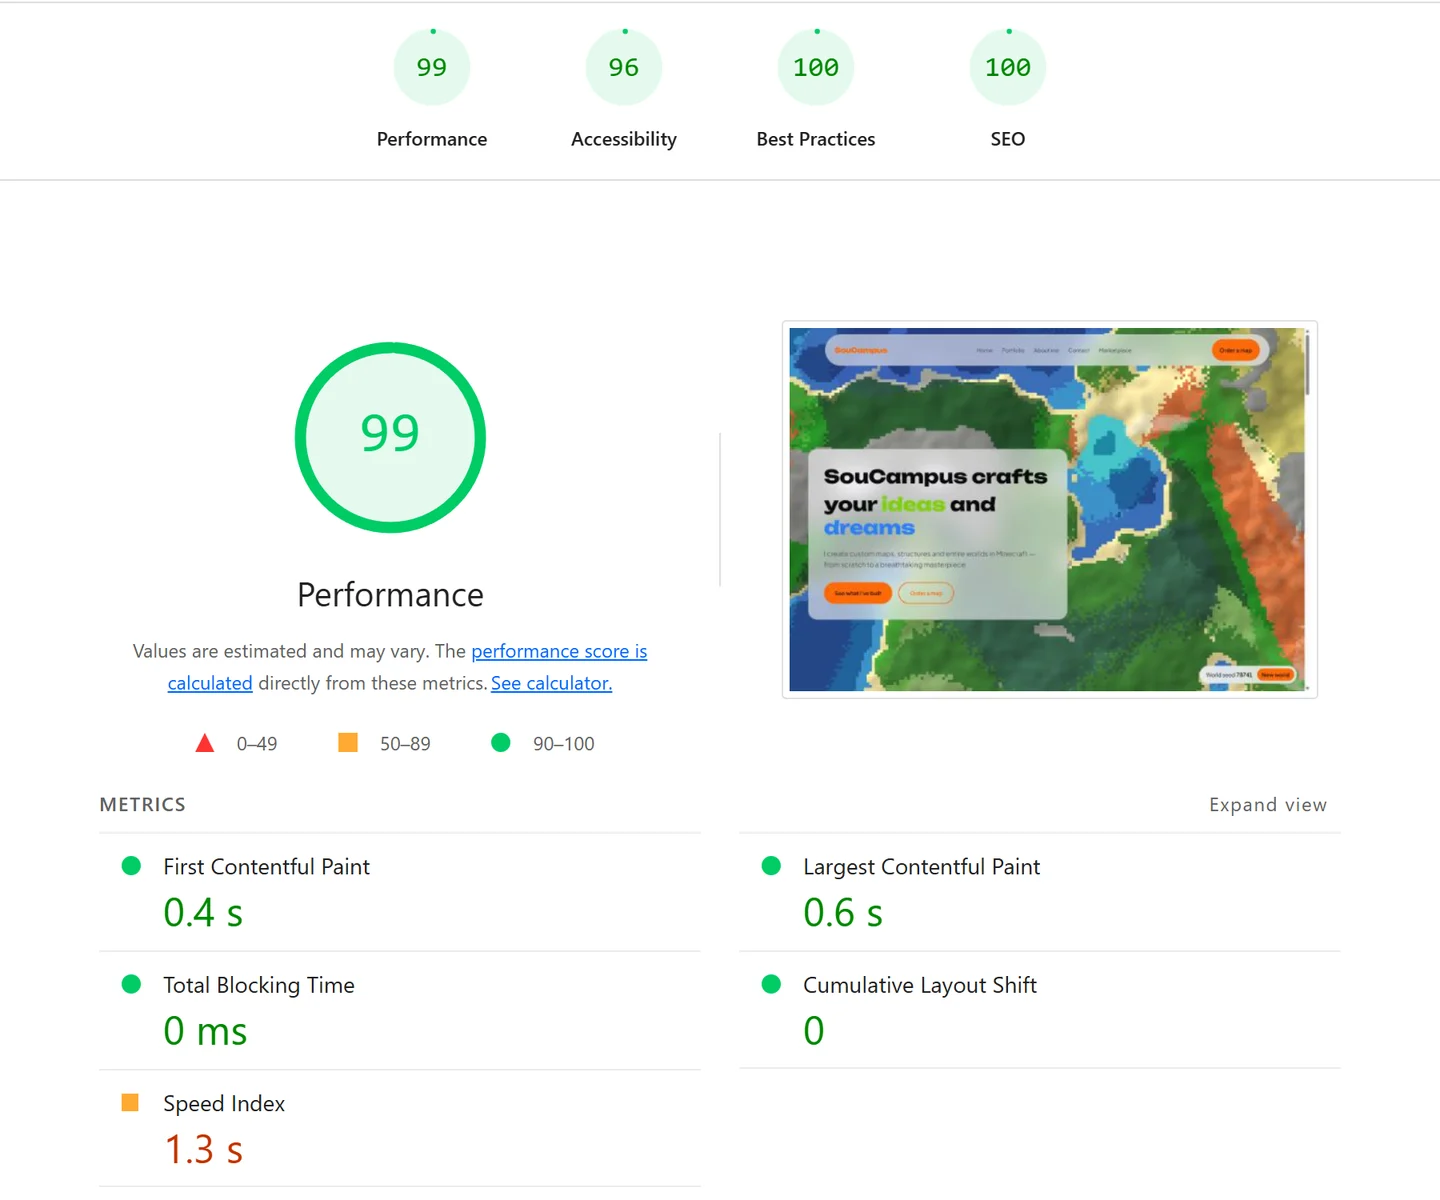
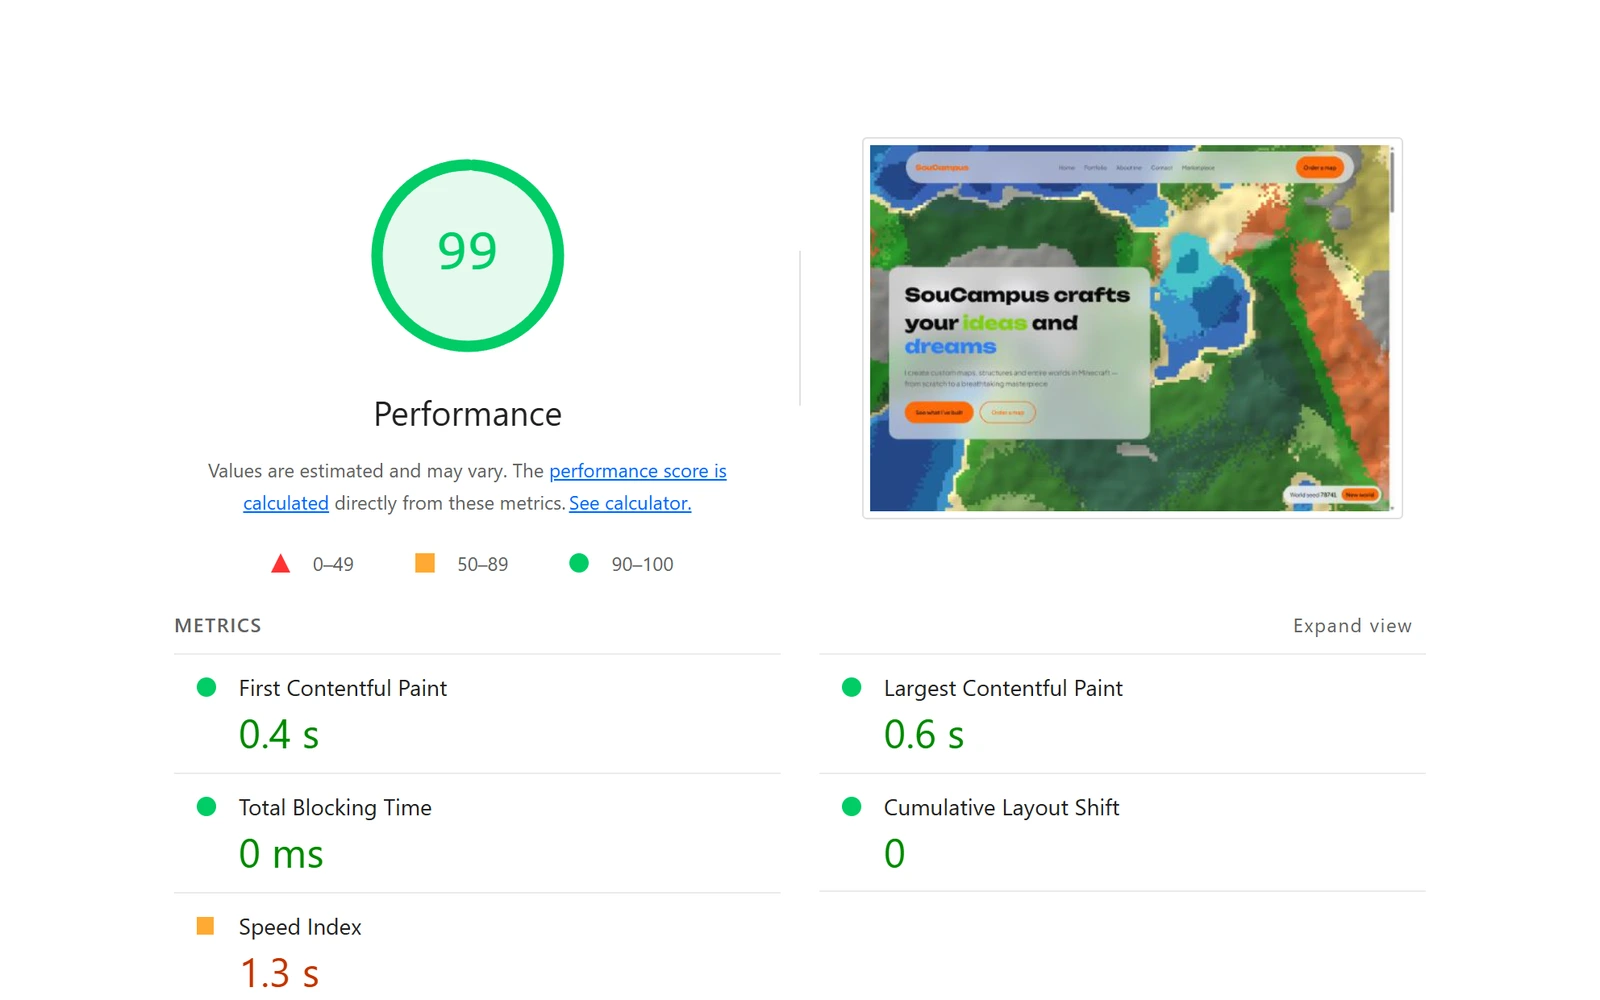
Crop Lighthouse reports to 16:10 like the other media

diff --git a/content/site.ts b/content/site.ts
@@ -666,14 +666,14 @@ export const site = {
     // Proof for the Performance section. Re-shoot when the site changes.
     lighthouse: [
       {
-        src: "/projects/soucampus-lighthouse-desktop.webp",
+        src: "/projects/soucampus-lh-desktop.webp",
         alt: "Lighthouse report for soucampus.online, desktop: performance 99, accessibility 96, best practices 100, SEO 100",
-        caption: "Desktop: 99 · LCP 0.6 s · CLS 0",
+        caption: "Desktop · Performance 99 · Accessibility 96 · Best practices 100 · SEO 100",
       },
       {
-        src: "/projects/soucampus-lighthouse-mobile.webp",
+        src: "/projects/soucampus-lh-mobile.webp",
         alt: "Lighthouse report for soucampus.online, mobile: performance 93, accessibility 96, best practices 100, SEO 100",
-        caption: "Mobile: 93 · LCP 3.1 s · CLS 0",
+        caption: "Mobile · Performance 93 · Accessibility 96 · Best practices 100 · SEO 100",
       },
     ],
     gallery: [

diff --git a/app/soucampus/page.tsx b/app/soucampus/page.tsx
@@ -146,8 +146,8 @@ export default function SouCampusCaseStudy() {
               {cs.lighthouse.map((shot) => (
                 <Reveal key={shot.src}>
                   <figure>
-                    <div className="overflow-hidden rounded-xl border border-line bg-white">
-                      <Image src={shot.src} alt={shot.alt} width={1440} height={1200} quality={92} sizes="(min-width: 640px) 720px, 100vw" className="h-auto w-full" />
+                    <div className="relative aspect-[16/10] overflow-hidden rounded-xl border border-line bg-white">
+                      <Image src={shot.src} alt={shot.alt} fill quality={92} sizes="(min-width: 640px) 720px, 100vw" className="object-cover object-top" />
                     </div>
                     <figcaption className="mt-2 font-mono text-xs text-muted">{shot.caption}</figcaption>
                   </figure>
